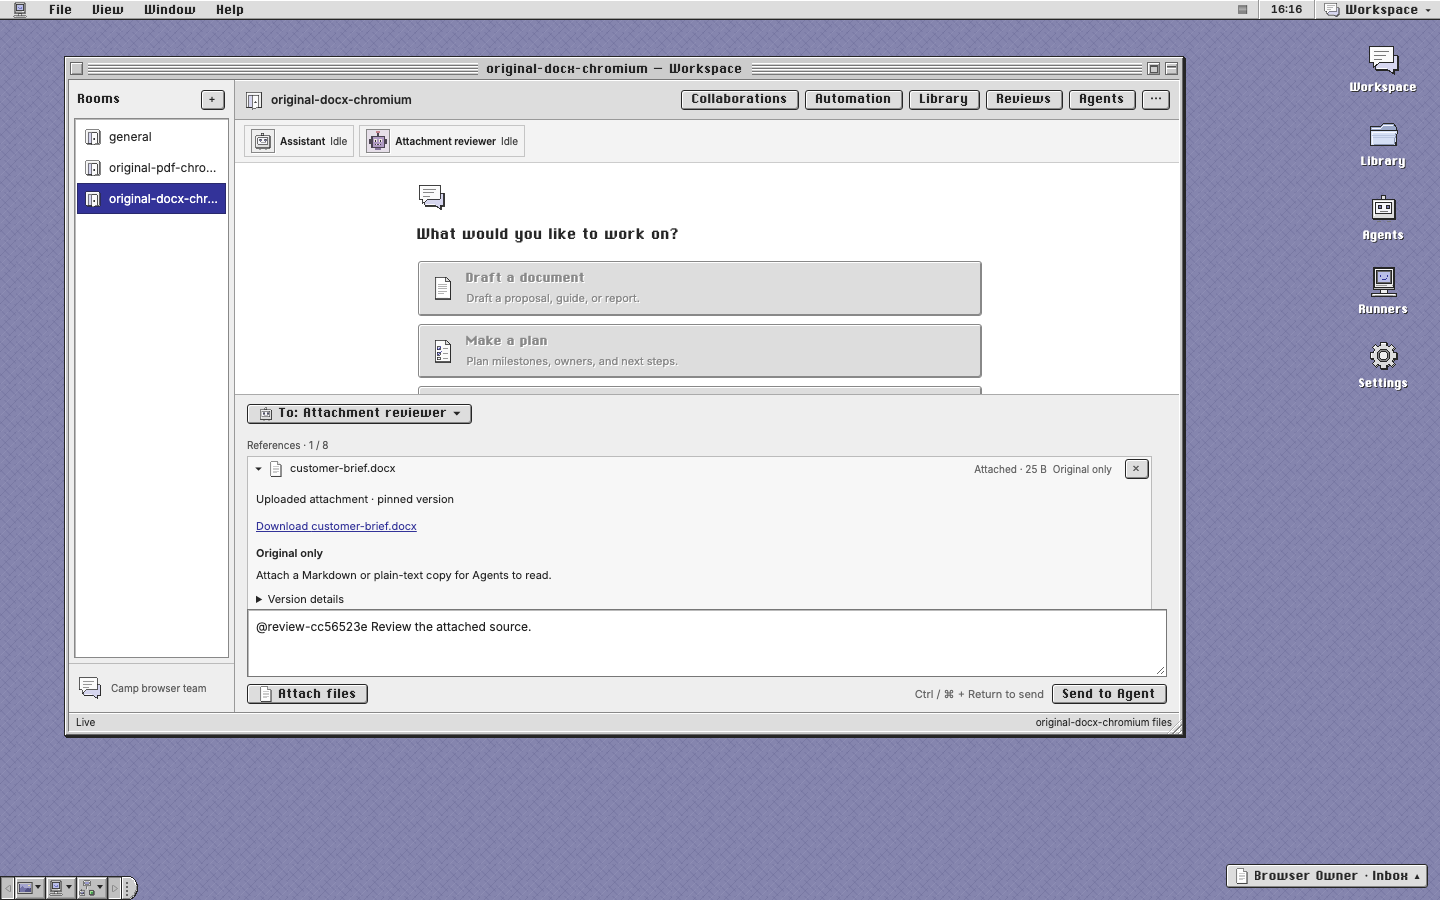
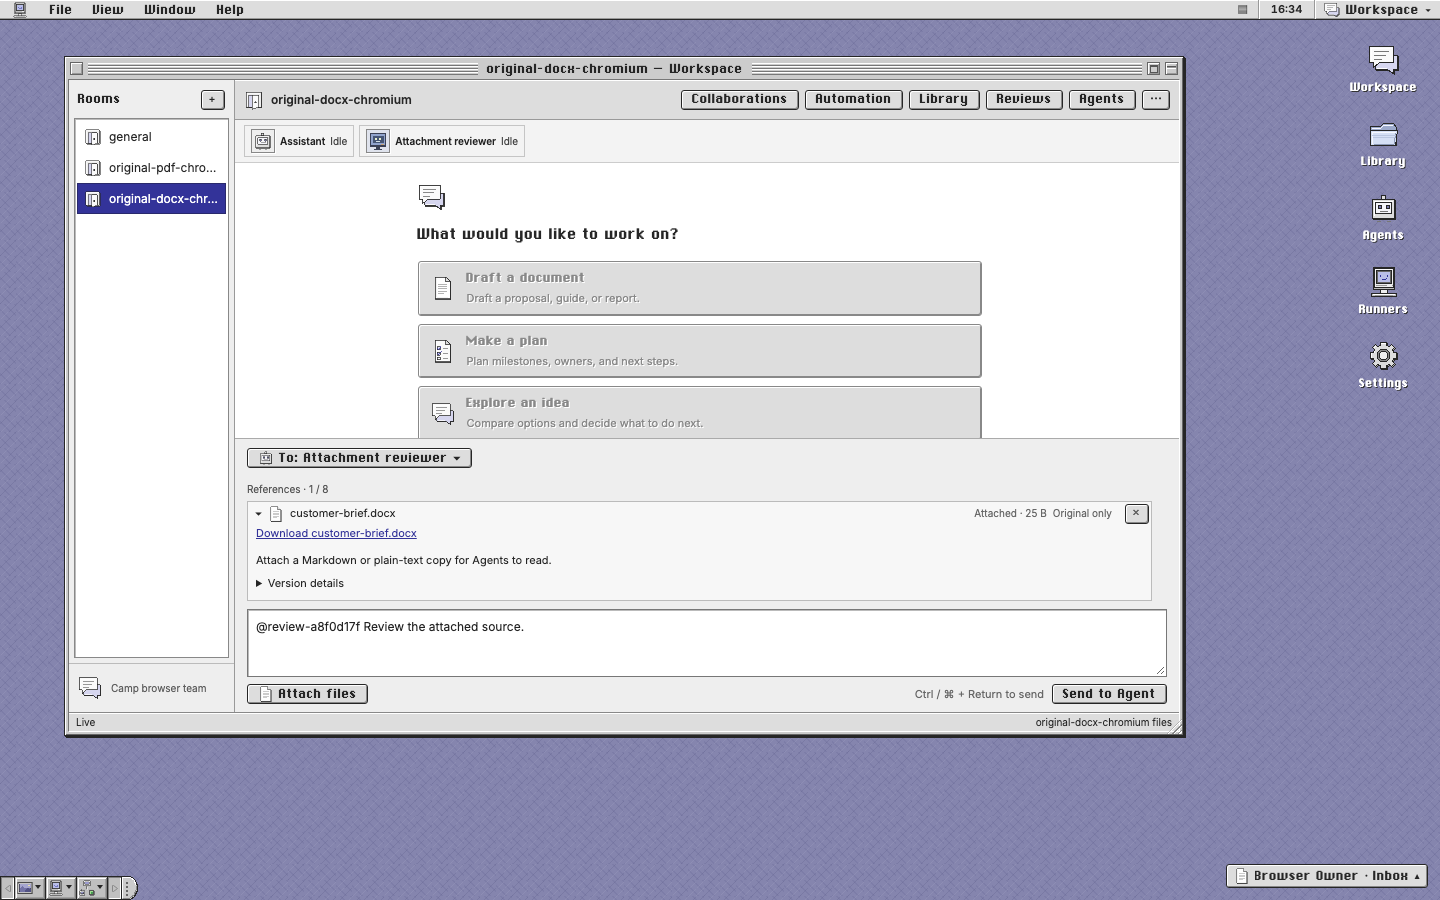
docs: retain refined Markdown-first source previews

diff --git a/docs/review/markdown-first/README.md b/docs/review/markdown-first/README.md
@@ -1,3 +1,3 @@
 # Markdown-first UI review
 
-Synthetic before/after images for issue #105. The task-start baseline is `aa0e422`; the integrated implementation is `36e2635`. The Automation toolbar comes from upstream PR #103. Original-only PDF/DOCX attachments remain sendable and downloadable; saved parsed citations remain readable. This branch contains review assets and is not intended for merge. Earlier images remain in commit `f990e4c`.
+Synthetic before/after images for issue #105. The task-start baseline is `aa0e422`; the refined implementation is `f7c8a53`. The Automation toolbar comes from upstream PR #103. Original-only attachments show one status and one useful readable-copy suggestion; saved text and historical citations remain readable. This branch contains review assets and is not intended for merge. Earlier images remain in commits `f990e4c` and `6072bb4`.
